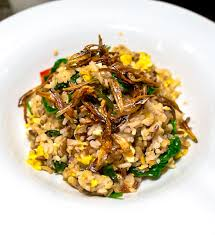
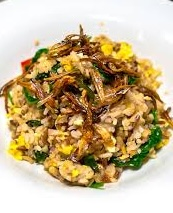
Alter styles on various pages
Also cropped images

diff --git a/src/menu.js b/src/menu.js
@@ -40,9 +40,9 @@ export const foodSet = [
     new Food('/images/menu_items/food/nasi_goreng_kampung.jpeg', 'Nasi Goreng Kampung', 'Traditional village-style fried rice, cooked with anchovies, vegetables, and a generous helping of sambal for an extra burst of flavor. It\'s a rustic and hearty dish that evokes the warmth of home-cooked meals.', '6 Rm'),
     new Food('/images/menu_items/food/nasi_goreng_pattaya.jpeg', 'Nasi Goreng Pattaya', 'Fried rice wrapped in a soft omelette, served with a tangy chili sauce. This unique dish offers a delightful contrast between the savoury rice and the sweetness of the sauce.', '7 Rm'),
     new Food('/images/menu_items/food/nasi_ayam_goreng.png', 'Nasi Ayam Goreng', 'Fragrant rice served with perfectly crispy fried chicken, seasoned with a blend of Malay spices. It\'s a simple, comforting dish that combines the best of fried rice and fried chicken.', '7.5 Rm'),
-    new Food('/images/menu_items/food/mee_goreng.jpeg', 'Mee / Bihun / Maggi / Kway Teow Goreng', 'Stir-fried noodles or rice noodles (your choice) tossed with vegetables, soy sauce, and spices. This dish is a street food favorite, packed with flavor and perfect for a quick bite.', '6 Rm'),
-    new Food('/images/menu_items/food/mee_bandung.jpg', 'Mee / Bihun / Maggi / Kway Teow Bandung', 'A noodle dish in a rich, flavorful broth made with a mix of spicy and sweet flavors. Served with your choice of noodles, this dish offers a comforting bowl of hearty goodness.', '8 Rm'),
-    new Food('/images/menu_items/food/mee_kungfu.jpg', 'Mee / Bihun / Maggi / Kway Teow Kungfu', 'A crispy noodle dish where the noodles are fried to a crunchy perfection and topped with a thick, savory sauce. The contrasting textures of crispy and saucy make it a popular choice.', '8 Rm'),
+    new Food('/images/menu_items/food/mee_goreng.jpeg', 'Mee Goreng', 'Stir-fried noodles or rice noodles (your choice) tossed with vegetables, soy sauce, and spices. This dish is a street food favorite, packed with flavor and perfect for a quick bite.', '6 Rm'),
+    new Food('/images/menu_items/food/mee_bandung.jpg', 'Mee Bandung', 'A noodle dish in a rich, flavorful broth made with a mix of spicy and sweet flavors. Served with your choice of noodles, this dish offers a comforting bowl of hearty goodness.', '8 Rm'),
+    new Food('/images/menu_items/food/mee_kungfu.jpg', 'Mee Kungfu', 'A crispy noodle dish where the noodles are fried to a crunchy perfection and topped with a thick, savory sauce. The contrasting textures of crispy and saucy make it a popular choice.', '8 Rm'),
     new Food('/images/menu_items/food/tom_yam_ayam.jpeg', 'Tom Yam Ayam', 'A spicy and sour Thai-inspired soup with chicken, filled with aromatic herbs, chili, and lime. It\'s the perfect balance of heat and tang, warming you from the inside out.', '9 Rm'),
     new Food('/images/menu_items/food/tom_yam_daging.jpeg', 'Tom Yam Daging', 'This beef version of the famous Tom Yam soup features tender slices of beef in a spicy, tangy broth. The bold flavors and aromatic spices make this a must-try for beef lovers.', '10 Rm')
 ]

diff --git a/src/functions.js b/src/functions.js
@@ -37,7 +37,7 @@ export function renderHomeAboutUs() {
     home_img.classList.add('home_img');
     home_img.src = '/images/Ikan-masak-asam-pedas.jpg';
     home_img.alt = 'Family Restaurant Image';
-    home_img.style.width = '100%';
+    home_img.style.width = '75%';
     home_img.style.height = 'auto';
     home_img_div.appendChild(home_img);
 

diff --git a/src/template.html b/src/template.html
@@ -10,7 +10,7 @@
 
 <body>
     <header>
-        <h1>Warung Asam Pedas Padu</h1>
+        <h1>Warung Asam Pedas Padu 🇲🇾</h1>
         <nav>
             <button id="menu" class="header_button">Menu</button>
             <button id="about_us" class="header_button">About Us</button>

diff --git a/src/styles.css b/src/styles.css
@@ -283,6 +283,8 @@ footer {
 .home_img_div {
     margin-top: 1vh;
     margin-bottom: 2vh;
+    display: flex;
+    justify-content: center;
 }
 
 .home_text_div {
